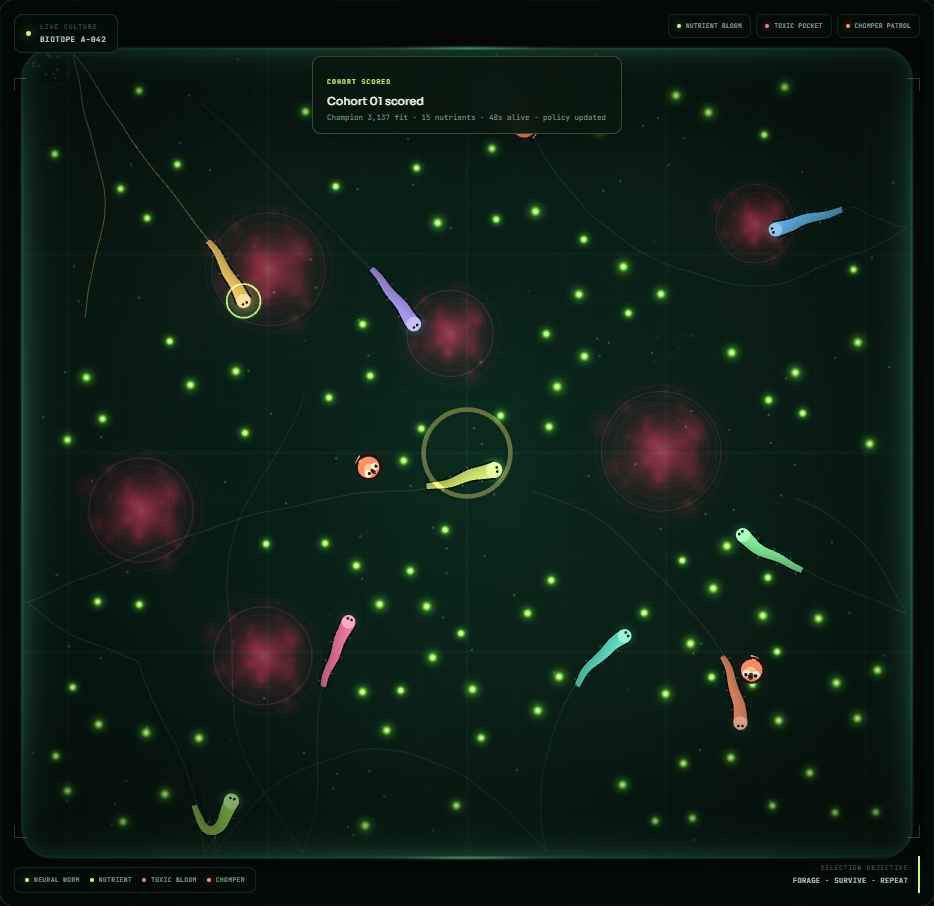
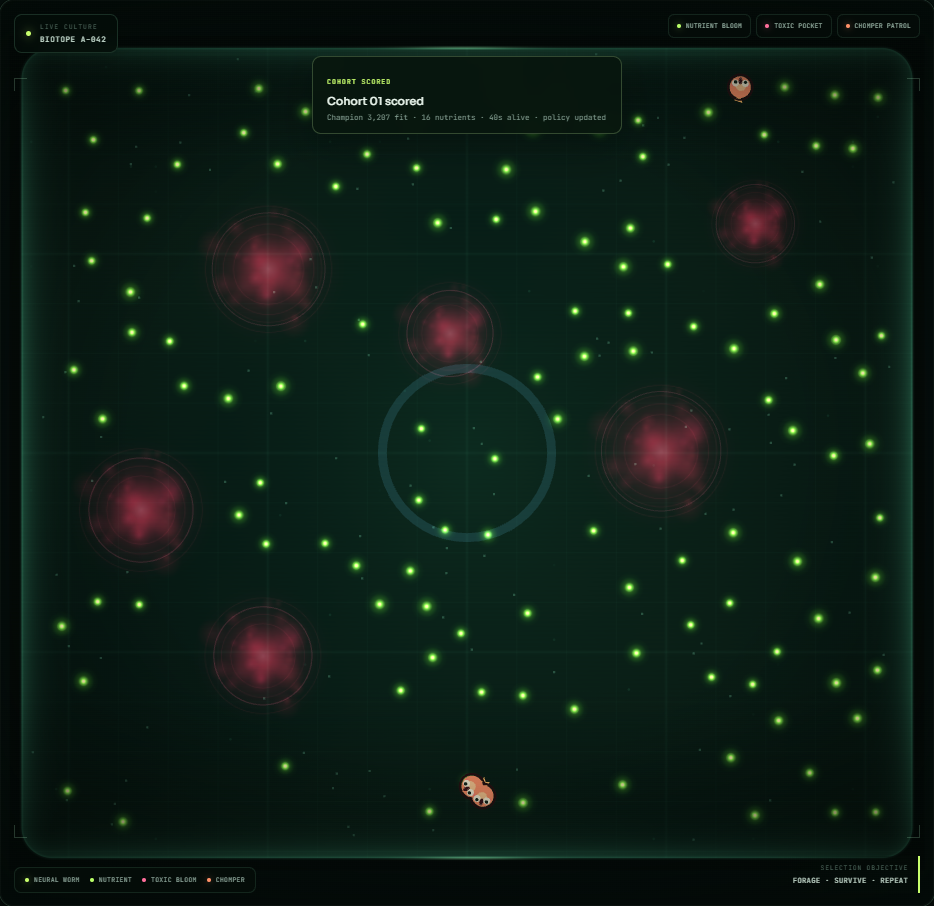
A cohort now ends only when the last worm in it is dead
The 45-second cap could retire a cohort while ten worms were still
swimming, which made a cohort score mean "we stopped watching" rather
than "this wave was wiped out". The cap is gone, and so is the
mid-cohort respawn that made extinction unreachable: a cohort is now a
wave, and a single survivor keeps it running.

The consequence is a much sharper learning signal, because a cohort is
only scored once it has been wiped out - the score measures how long the
policy kept its worms alive. Mean cohort fitness now climbs from 606 to
2 986 over 105 cohorts (+393%), and cohort length grows from ~30s to
~170s as the policy learns to survive.

Also fixes the GitHub Pages deploy: Vite's default absolute asset paths
404 under a sub-path, so the built bundle now uses a relative base and
runs from Pages, from any static host, or straight off the filesystem.

diff --git a/src/sim/worm.js b/src/sim/worm.js
@@ -52,13 +52,6 @@ export class Worm {
     this.collisionHits = 0;
     this.selfCollisionHits = 0;
     this.otherCollisionHits = 0;
-    this.bankedFitness = 0;
-    this.episodes = 0;
-    this.deaths = 0;
-    this.lifetime = 0;
-    this.totalFood = 0;
-    this.totalDistance = 0;
-    this.totalStraight = 0;
 
     this.velocityX = Math.cos(heading) * config.worm.minSpeed;
     this.velocityY = Math.sin(heading) * config.worm.minSpeed;
@@ -117,10 +110,6 @@ export class Worm {
   }
 
   get fitness() {
-    return this.bankedFitness + Math.max(0, this.rawFitness);
-  }
-
-  get episodeFitness() {
     return Math.max(0, this.rawFitness);
   }
 
@@ -342,58 +331,6 @@ export class Worm {
     return energyDelta - (f.deathPenalty ?? 0);
   }
 
-  /**
-   * Starts a fresh life in the same cohort. The previous episode is banked so
-   * the leaderboard still ranks a worm by everything it achieved.
-   */
-  respawn({ x, y, heading }) {
-    const { segments, spacing, minSpeed, startEnergy, maxEnergy } = this.config.worm;
-    this.bankedFitness += Math.max(0, this.rawFitness);
-    this.episodes += 1;
-    this.deaths += 1;
-
-    this.x = x;
-    this.y = y;
-    this.spawnX = x;
-    this.spawnY = y;
-    this.heading = heading;
-    this.speed = minSpeed;
-    this.steering = 0;
-    this.throttle = 0.45;
-    this.angularVelocity = 0;
-    this.energy = startEnergy;
-    this.maxEnergy = maxEnergy;
-    this.age = 0;
-    this.alive = true;
-    this.deathCause = null;
-    this.foodEaten = 0;
-    this.foodEnergy = 0;
-    this.distanceTravelled = 0;
-    this.straightTravel = 0;
-    this.radiansTurned = 0;
-    this.hazardTime = 0;
-    this.predatorHits = 0;
-    this.biteFlash = 0;
-    this.wallHits = 0;
-    this.ateRecently = 0;
-    this.collisionHits = 0;
-    this.selfCollisionHits = 0;
-    this.otherCollisionHits = 0;
-    this.velocityX = Math.cos(heading) * minSpeed;
-    this.velocityY = Math.sin(heading) * minSpeed;
-    this.averageSpeed = minSpeed;
-    this.terminalSettled = false;
-    this.accountedEnergy = this.energy;
-    this.stepReward = 0;
-    this.body = Array.from({ length: segments }, (_, segment) => ({
-      x: x - Math.cos(heading) * spacing * segment,
-      y: y - Math.sin(heading) * spacing * segment,
-    }));
-    this.trail = [{ x, y }];
-    this.trailClock = 0;
-    this.bodyClock = 0;
-  }
-
   step(dt, ecology) {
     if (!this.alive) return null;
 
@@ -407,7 +344,7 @@ export class Worm {
     const previousEnergy = this.accountedEnergy;
 
     this.age += dt;
-    this.lifetime += dt;
+
     this.biteFlash = Math.max(0, this.biteFlash - dt * 3.4);
 
     const steeringTarget = this.outputs.turn;
@@ -432,7 +369,6 @@ export class Worm {
     this.y += Math.sin(this.heading) * this.speed * dt;
     const stepDistance = Math.hypot(this.x - previousX, this.y - previousY);
     this.distanceTravelled += stepDistance;
-    this.totalDistance += stepDistance;
 
     const velocityX = (this.x - previousX) / dt;
     const velocityY = (this.y - previousY) / dt;
@@ -441,7 +377,6 @@ export class Worm {
     this.velocityY = lerp(this.velocityY, velocityY, blend);
     this.averageSpeed = lerp(this.averageSpeed, this.speed, blend);
     this.straightTravel += stepDistance * this.straightness;
-    this.totalStraight += stepDistance * this.straightness;
 
     const margin = 26;
     let wallHit = false;
@@ -475,7 +410,6 @@ export class Worm {
     let foodEvent = null;
     if (eaten) {
       this.foodEaten += 1;
-      this.totalFood += 1;
       this.foodEnergy += this.config.food.energy;
       this.energy = Math.min(this.maxEnergy, this.energy + this.config.food.energy);
       this.ateRecently = 1;

diff --git a/src/ppo/trainer.js b/src/ppo/trainer.js
@@ -28,7 +28,6 @@ export class Trainer {
   reset() {
     this.seedRng = mulberry32(this.config.seed);
     this.policyRng = mulberry32(this.config.seed ^ 0x9e3779b9);
-    this.respawnRng = mulberry32(this.config.seed ^ 0x85ebca6b);
     this.ppo = new PPO(this.config, this.policyRng);
     this.network = describeNetwork(this.ppo.policy.actor);
     this.phase = 'ready';
@@ -215,8 +214,6 @@ export class Trainer {
       }
     }
 
-    this.respawnFallen();
-
     this.ranking = [...this.agents].sort(
       (a, b) => b.worm.fitness - a.worm.fitness || a.index - b.index,
     );
@@ -225,8 +222,7 @@ export class Trainer {
       0,
     );
 
-    const cohortDone =
-      this.timeAlive === 0 || this.elapsed >= this.config.cohortSeconds;
+    const cohortDone = this.cohortFinished();
 
     if (!collecting) {
       if (cohortDone) this.cohortEnded = true;
@@ -242,42 +238,12 @@ export class Trainer {
   }
 
   /**
-   * Puts a dead worm back into the arena. A cohort is a continuous task: the
-   * policy keeps improving while the population keeps turning over.
+   * A cohort is a wave: it ends when the last worm in it is dead, and the
+   * next wave spawns into the same arena with the improved policy. A single
+   * survivor keeps the cohort alive.
    */
-  respawnFallen() {
-    for (const agent of this.agents) {
-      const worm = agent.worm;
-      if (worm.alive) continue;
-      const points = this.ecology.spawnPoints;
-      let best = points[0];
-      let bestDistance = -1;
-      for (let attempt = 0; attempt < 6; attempt += 1) {
-        const point = points[Math.floor(this.respawnRng() * points.length)];
-        let nearest = Infinity;
-        for (const other of this.agents) {
-          if (other === agent || !other.worm.alive) continue;
-          const dx = other.worm.x - point.x;
-          const dy = other.worm.y - point.y;
-          nearest = Math.min(nearest, Math.sqrt(dx * dx + dy * dy));
-        }
-        if (nearest > bestDistance) {
-          bestDistance = nearest;
-          best = point;
-        }
-      }
-      worm.respawn({
-        x: best.x,
-        y: best.y,
-        heading: this.respawnRng() * Math.PI * 2,
-      });
-      this.events.push({
-        type: 'spawn',
-        x: worm.x,
-        y: worm.y,
-        color: worm.color,
-      });
-    }
+  cohortFinished() {
+    return this.timeAlive === 0;
   }
 
   /** Turns the collected rollout into advantages and queues a policy update. */
@@ -336,8 +302,8 @@ export class Trainer {
       generation: this.generation,
       best: this.champion.worm.fitness,
       average,
-      foodEaten: this.champion.worm.totalFood,
-      timeAlive: this.champion.worm.lifetime,
+      foodEaten: this.champion.worm.foodEaten,
+      timeAlive: this.champion.worm.age,
       color: this.champion.color,
       iteration: this.iteration,
       policyLoss: this.ppo.stats.policyLoss,

diff --git a/src/ui/dashboard.js b/src/ui/dashboard.js
@@ -283,15 +283,15 @@ export class Dashboard {
         ).padStart(2, '0')}`,
       );
       this.setText(this.leaderScore, formatInteger(worm.fitness));
-      this.setText(this.leaderFood, String(worm.totalFood));
-      this.setText(this.leaderForward, formatInteger(worm.totalDistance));
+      this.setText(this.leaderFood, String(worm.foodEaten));
+      this.setText(this.leaderForward, formatInteger(worm.forwardProgress));
       this.setText(
         this.leaderStraight,
         `${Math.round(
-          (worm.totalStraight / Math.max(1, worm.totalDistance)) * 100,
+          (worm.straightTravel / Math.max(1, worm.distanceTravelled)) * 100,
         )}%`,
       );
-      this.setText(this.leaderTime, `${worm.lifetime.toFixed(0)}s`);
+      this.setText(this.leaderTime, `${worm.age.toFixed(0)}s`);
       const energyPercent = Math.round((worm.energy / worm.maxEnergy) * 100);
       this.setText(this.leaderEnergy, `${energyPercent}%`);
       this.leaderEnergyBar.style.width = `${energyPercent}%`;
@@ -347,8 +347,8 @@ export class Dashboard {
           <div class="standing-row" style="--row-agent:${agent.color}">
             <span class="standing-rank">${String(index + 2).padStart(2, '0')}</span>
             <span class="standing-swatch"></span>
-            <span class="standing-name">W-${String(agent.index).padStart(2, '0')}<small>${agent.worm.totalFood} NUT</small></span>
-            <span class="standing-food">${agent.worm.lifetime.toFixed(0)}s</span>
+            <span class="standing-name">W-${String(agent.index).padStart(2, '0')}<small>${agent.worm.foodEaten} NUT</small></span>
+            <span class="standing-food">${agent.worm.age.toFixed(0)}s</span>
             <span class="standing-score">${formatInteger(agent.worm.fitness)}</span>
           </div>
         `,

diff --git a/vite.config.js b/vite.config.js
@@ -1,0 +1,10 @@
+import { defineConfig } from 'vite';
+
+// A relative base keeps the built bundle portable: it works from a GitHub
+// Pages sub-path, from any static host, and straight off the filesystem.
+export default defineConfig({
+  base: './',
+  build: {
+    target: 'es2020',
+  },
+});

diff --git a/src/main.js b/src/main.js
@@ -120,7 +120,6 @@ window.__HELMINTH__ = {
     alive: trainer.aliveCount,
     chompers: trainer.predators?.chompers.length ?? 0,
     history: trainer.history,
-    maxCohortSeconds: CONFIG.cohortSeconds,
     ppo: trainer.ppo.stats,
     parameterChecksum: trainer.ppo.parameterChecksum,
   }),

diff --git a/src/config.js b/src/config.js
@@ -8,7 +8,6 @@ export const STEP = 1 / 60;
 
 export const CONFIG = Object.freeze({
   seed: 4217,
-  cohortSeconds: 45,
   populationSize: 10,
   food: {
     count: 120,

diff --git a/README.md b/README.md
@@ -49,7 +49,8 @@ no PyTorch, no TensorFlow, no ML dependency at all.
   Adam, all implemented on `Float32Array`s with hand-written forward and backward
   passes. 2 573 parameters, ~110 ms for a full update.
 - **Parallel on-policy rollouts** — all ten worms are sampled in lockstep, so one
-  policy update consumes a full cohort of 2 560 trajectories.
+  policy update consumes a full cohort of trajectories. A cohort ends only when the
+  last worm in it is dead.
 - **24-channel sensorium** — 8 food rays, 4 hazard rays, 4 rival-worm rays, 4 chomper
   rays, 2 self-body rays, energy, and bias, plus a 2-channel per-worm drift vector.
 - **Body-aware worms** — 15-segment bodies, self-collision, worm-to-worm collision,
@@ -160,14 +161,19 @@ flowchart LR
 5. **Reward.** The step reward is the exact delta of the fitness terms below, so the
    credit a worm receives is the credit the scorecard shows.
 6. **Store.** Every transition lands in the rollout buffer. A worm that dies ends its
-   own trajectory (bootstrapping with zero) and is replaced by a fresh one.
-7. **Learn.** When the rollout fills (256 steps) or the cohort hits its cap, GAE turns
-   the buffer into advantages and four epochs of clipped minibatches rewrite the actor
-   and the critic.
+   own trajectory (bootstrapping with zero).
+7. **Learn.** When the rollout fills (256 steps), GAE turns the buffer into advantages
+   and four epochs of clipped minibatches rewrite the actor and the critic.
 
-A cohort ends on the 45-second cap. The next cohort starts from the same arena with
-the improved policy. The arena never freezes during an update: the optimization is
-spread across frames on a millisecond budget while the worms keep swimming.
+**A cohort ends when the last worm in it is dead.** There is no timer: a single
+survivor keeps the cohort alive, so a cohort score always means "this wave was
+wiped out", never "we stopped watching while they were still swimming". The next
+cohort spawns into the same arena with the improved policy, and the arena never
+freezes during an update — the optimization is spread across frames on a millisecond
+budget while the worms keep swimming.
+
+The consequence is visible in the data: an untrained policy loses its wave in about
+30 seconds, while a trained one holds on for two minutes.
 
 ---
 
@@ -252,12 +258,18 @@ instead of blocking the render loop for 110 ms.
 
 ## Does it actually learn?
 
-Measured over a single 400 000-step run (138 cohorts, one fixed arena):
+Measured over a single 400 000-step run (105 cohorts, one fixed arena):
 
 | Metric | First 6 cohorts | Middle 6 | Last 6 | Change |
 | --- | ---: | ---: | ---: | ---: |
-| Mean cohort fitness | 2 905 | 8 046 | 8 717 | **+200%** |
-| Best single cohort | — | — | 11 269 | — |
+| Mean cohort fitness | 606 | 631 | 2 986 | **+393%** |
+| Best single cohort | — | — | 24 930 | — |
+| Cohort length (seconds alive) | 33 / 37 / 31 / 20 / 34 | — | 60 / 63 / 84 / 39 / 172 | **+170%** |
+
+The second row is the one that matters most: a cohort is only scored once it has
+been *wiped out*, so the score measures how long the policy kept its worms alive
+against a hostile arena. The last cohorts survive more than twice as long as the
+first ones, and the best single cohort scored 24 930.
 
 The same build, before the policy gradient was corrected, *degraded* instead of
 improving — the policy learned to stop foraging and die within seconds. That failure
@@ -323,20 +335,17 @@ replaced the genome with one shared policy. Every worm then faced the arena with
 same heading policy, so they converged on the arena centre, folded into their own
 tails, and collided. Roughly 77 % of all deaths were body collisions.
 
-Three changes fixed it:
+Two changes fixed it:
 
 1. **Per-worm action noise.** Each worm draws its motor command from its own RNG
    stream, so identical weights do not mean identical trajectories.
 2. **A per-worm drift vector** in the observation, which breaks the symmetry
    *systematically* rather than stochastically.
-3. **Respawn on death.** The cohort became a continuous task: a fallen worm is
-   replaced at a clear spawn point, its previous episode is banked into the
-   leaderboard score, and the rollout stays dense. Before this change the population
-   wiped out in about eight seconds, the arena sat empty, and the app spent most of
-   its time in the intermission with nothing on screen.
 
-The arena now stays populated, and every one of the ten slots contributes a full
-trajectory to every policy update.
+A third change — replacing fallen worms mid-cohort — was tried and then removed: it
+kept the arena populated, but it made extinction impossible, and with it the meaning
+of a cohort score. A cohort is now a wave: it is scored when the last worm in it is
+dead, and a single survivor keeps it running.
 
 ---
 
@@ -432,7 +441,7 @@ src/
     rollout.js         Parallel rollout buffer, GAE, return statistics
     optim.js           Adam with global gradient-norm clipping
     ppo.js             Clipped surrogate, clipped value loss, entropy, minibatch updates
-    trainer.js         Cohort lifecycle, rollout collection, update scheduling, respawns
+    trainer.js         Cohort lifecycle, rollout collection, update scheduling
   sim/
     worm.js            Sensors, policy actions, movement, energy, bites, step reward
     predators.js       Chomper pack, chase/lunge/chomp state machine
@@ -461,7 +470,7 @@ docs/screenshots/      Curated README images
 - a PPO update running on the collected rollout, with finite telemetry;
 - policy weights actually changing under the optimizer;
 - cohort scoring and advancement to the next cohort;
-- cohort termination on the 45-second cap;
+- cohort termination on extinction — never on a timer with worms still alive;
 - pause/resume behavior;
 - rendered fitness trace;
 - 1440×900 compact layout with no clipped panels or page overflow;
